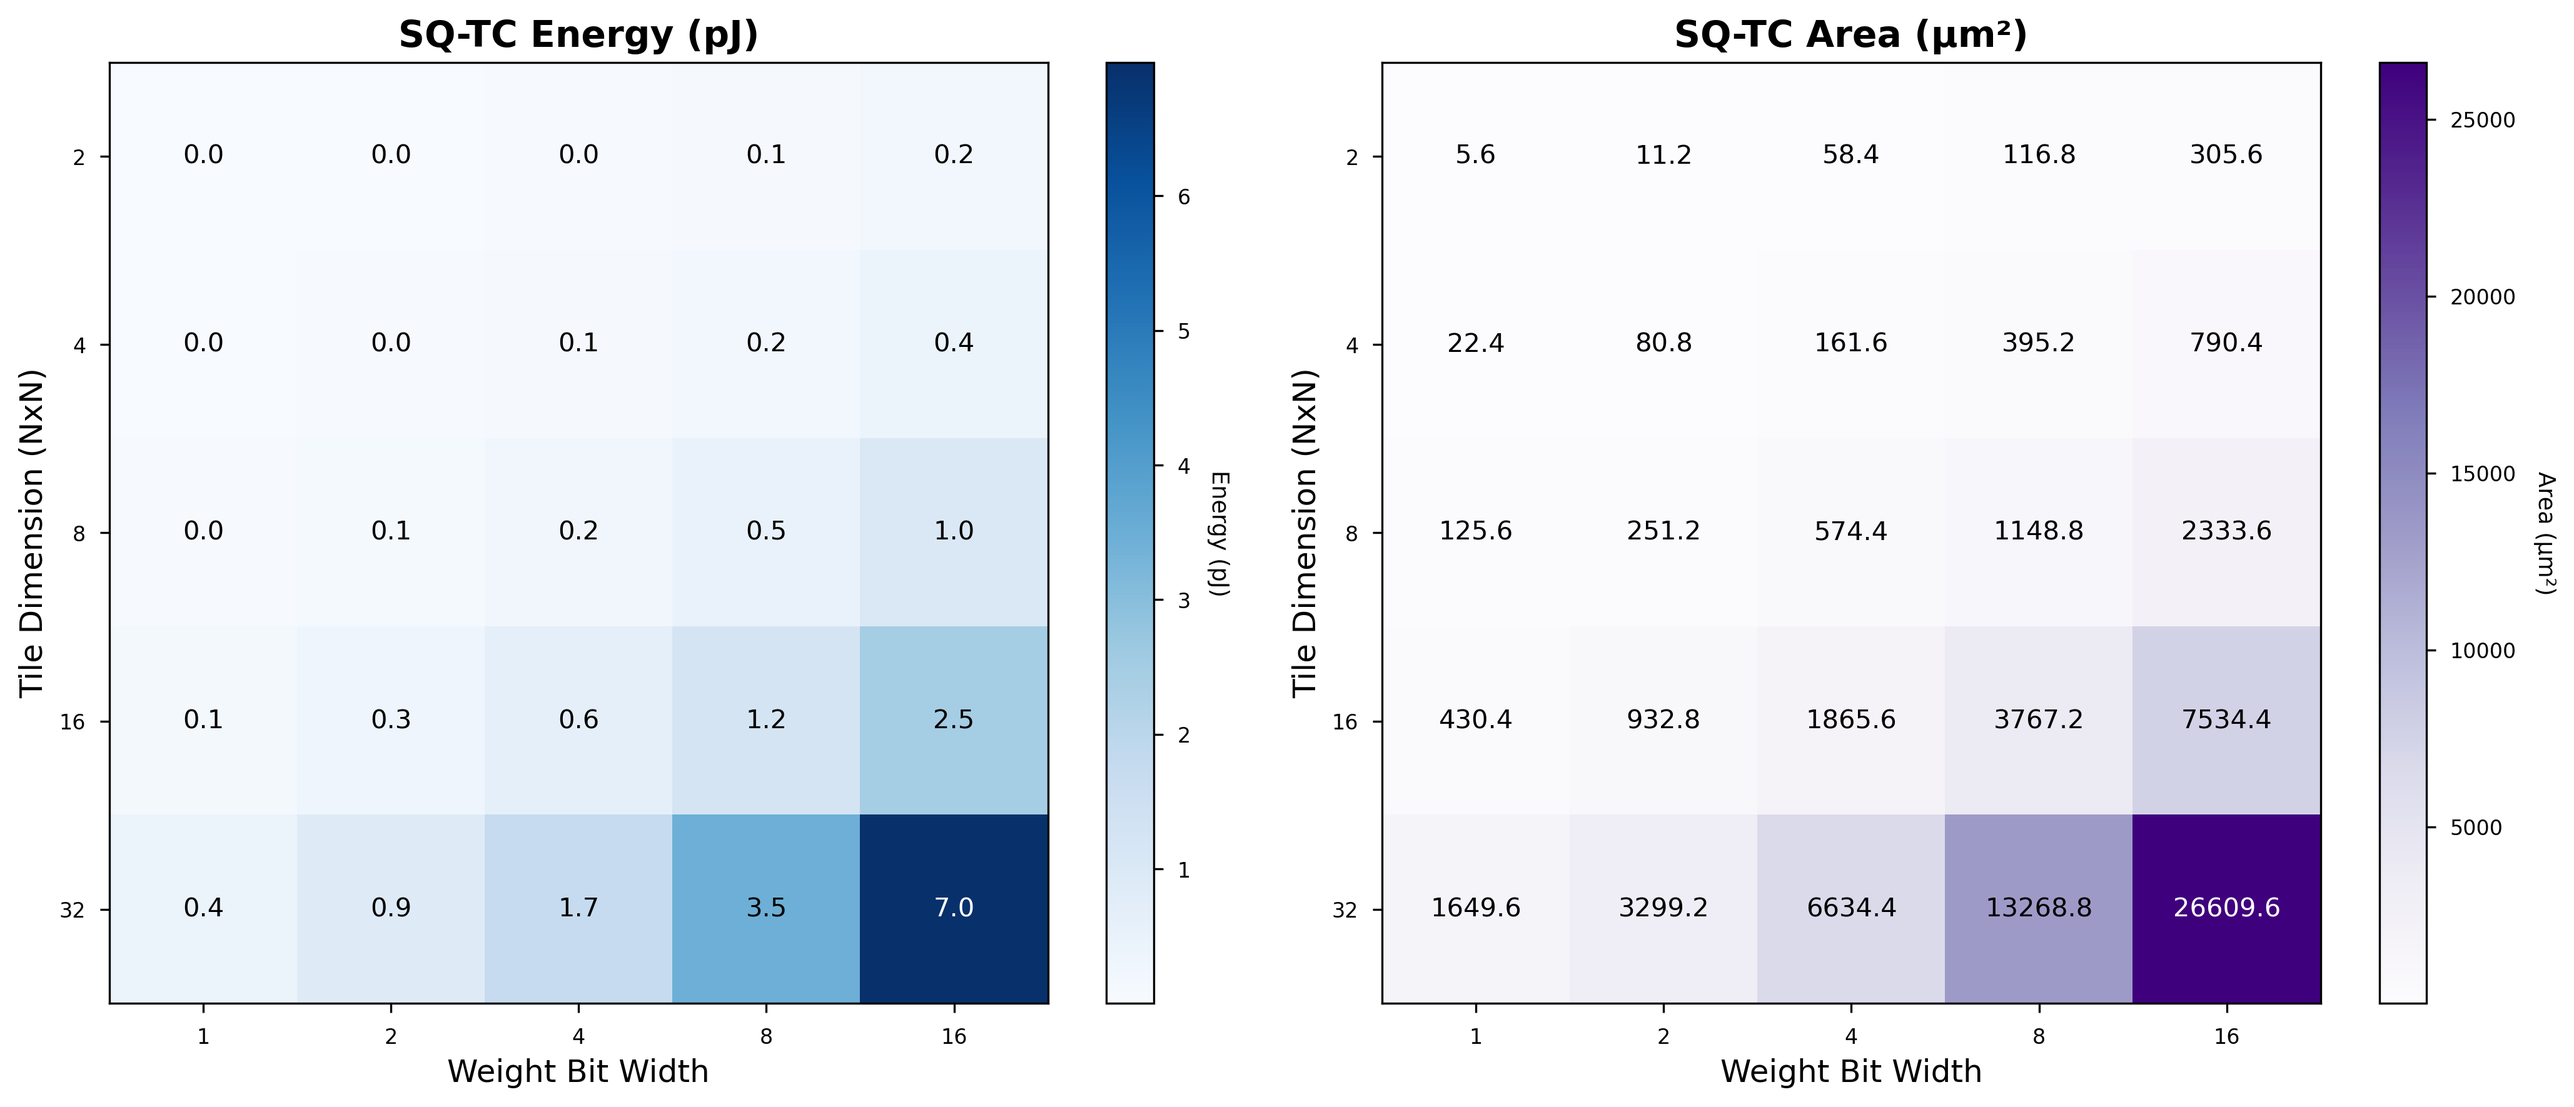
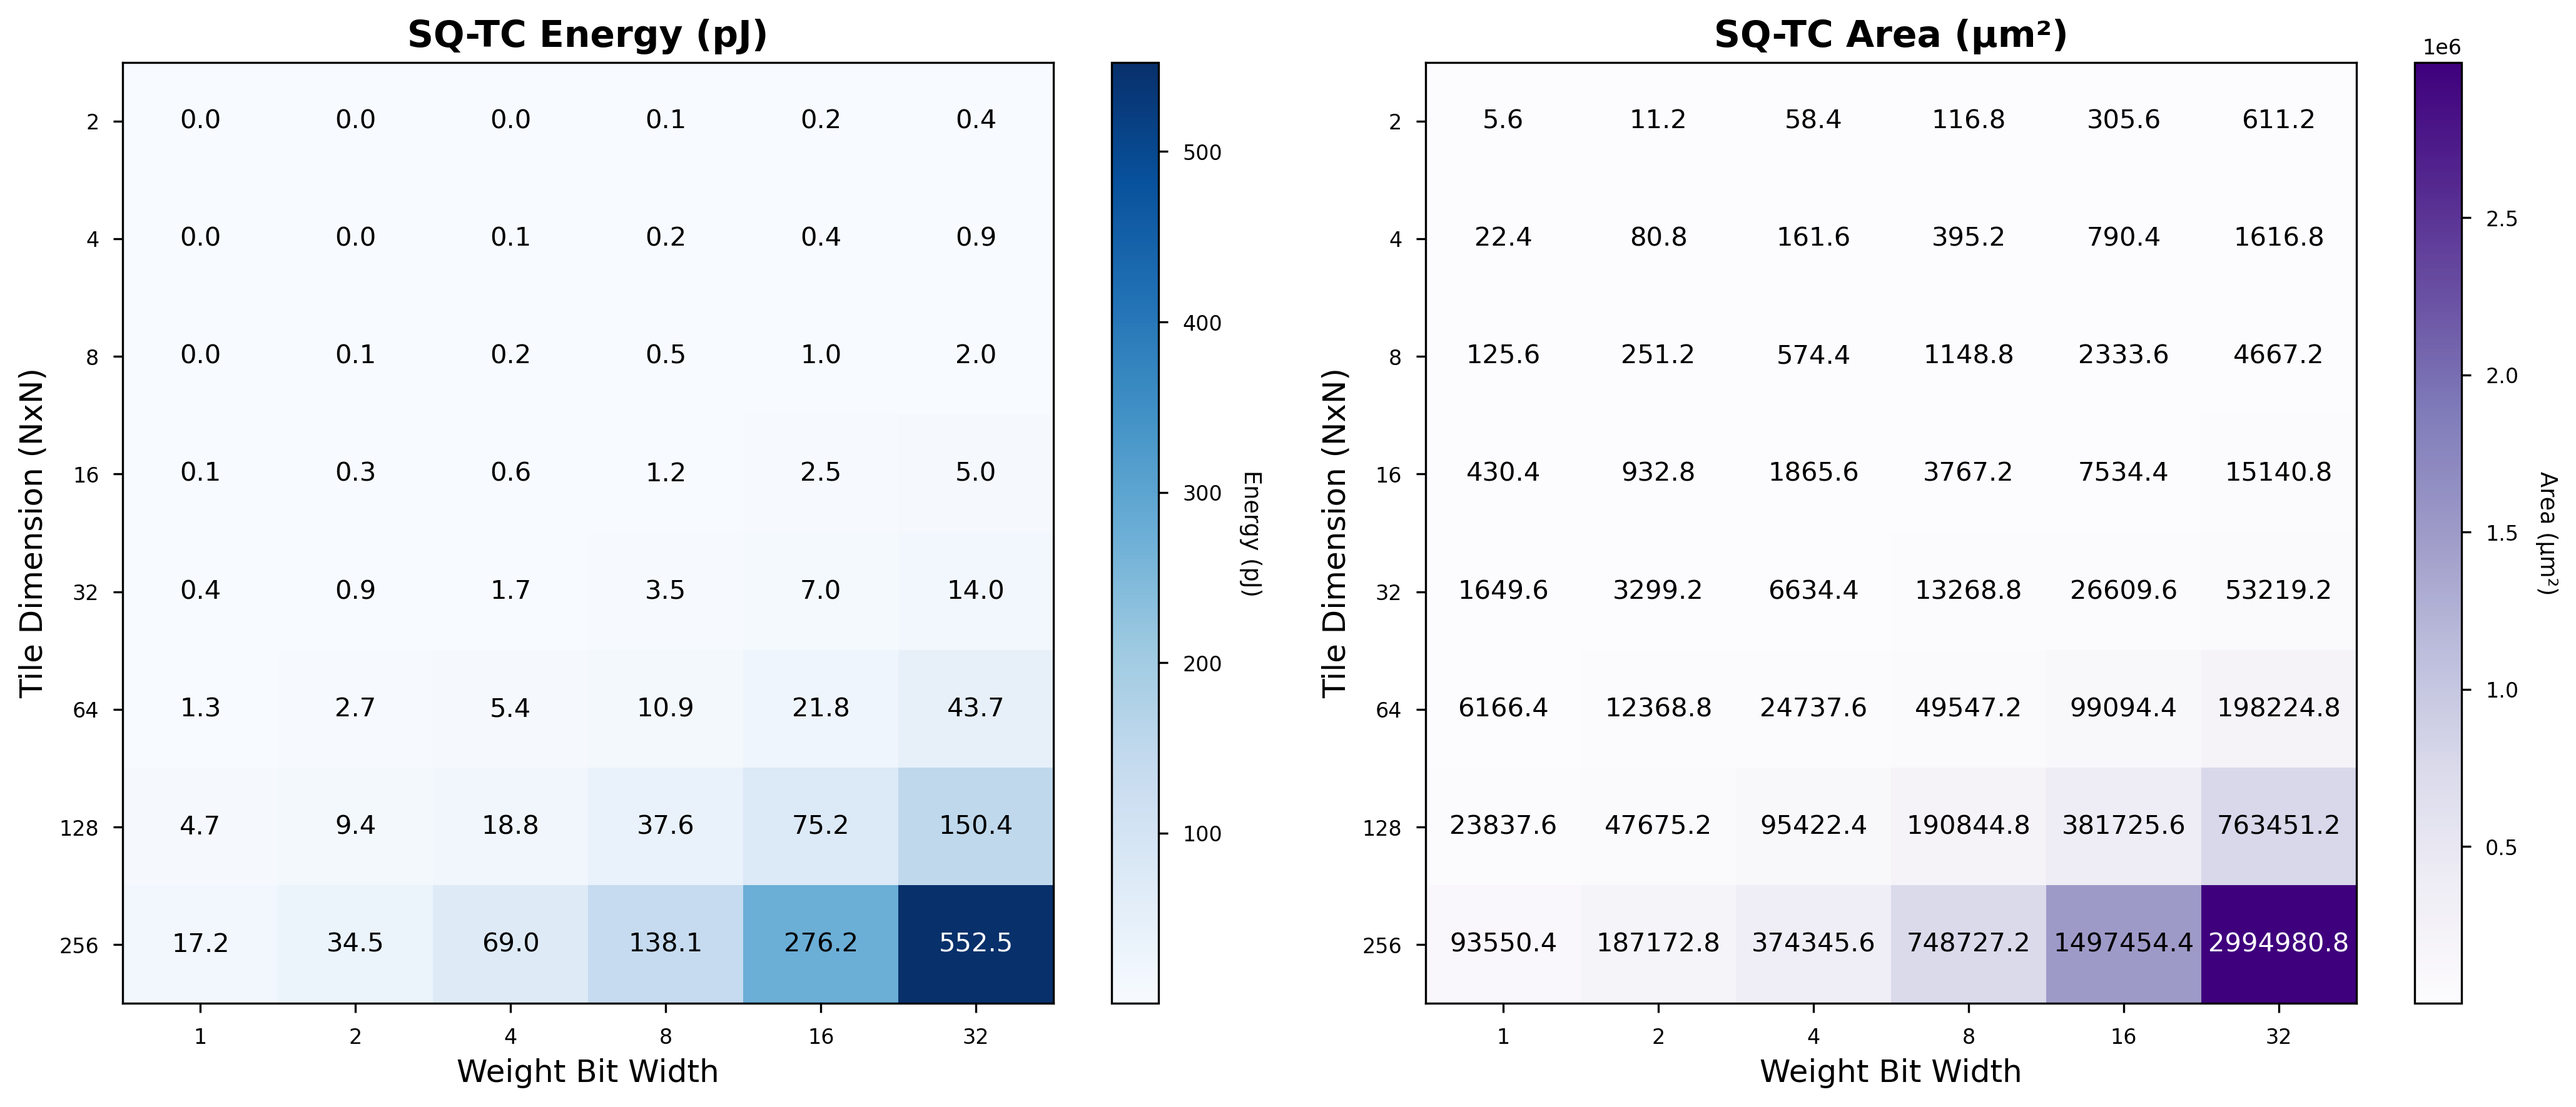
add more plots to resource model

diff --git a/models/resource-model/pe_model.py b/models/resource-model/pe_model.py
@@ -595,6 +595,255 @@ def plot_combined_heatmap(tile_sizes: list, weight_bits_list: list, combined_res
     plt.savefig('sq_tc_combined_heatmap.png', format='png', dpi=300, bbox_inches='tight')
     plt.show()
 
+def plot_component_breakdown(tile_dim: int = 4, weight_bits: int = 4, activation_bits: int = 8):
+    """Plot energy and area breakdown by component for SQ-TC"""
+    plt.style.use('seaborn-v0_8-paper')
+    
+    # Calculate costs
+    pe_costs = calculate_pe_costs(tile_dim=tile_dim, weight_bits=weight_bits, activation_bits=activation_bits)
+    sq_tc_components = pe_costs['sq_tc']['components']
+    
+    # Extract component data
+    components = list(sq_tc_components.keys())
+    energy_values = [sq_tc_components[comp]['energy'] for comp in components]
+    area_values = [sq_tc_components[comp]['area'] for comp in components]
+    
+    # Create a figure with two subplots
+    fig, (ax1, ax2) = plt.subplots(1, 2, figsize=(12, 5), dpi=300)
+    
+    # Energy breakdown pie chart
+    colors = ['#808080', '#6F9EE3']
+    
+    # Add percentage to labels
+    total_energy = sum(energy_values)
+    energy_labels = [f"{comp}\n({value/total_energy:.1%})" for comp, value in zip(components, energy_values)]
+    
+    ax1.pie(energy_values, labels=energy_labels, colors=colors, autopct='%.1f%%', 
+            startangle=90, wedgeprops={'edgecolor': 'w', 'linewidth': 1})
+    
+    # Format energy plot
+    ax1.set_title('SQ-TC Energy Breakdown', fontsize=14, fontweight='bold')
+    
+    # Area breakdown pie chart
+    total_area = sum(area_values)
+    area_labels = [f"{comp}\n({value/total_area:.1%})" for comp, value in zip(components, area_values)]
+    
+    ax2.pie(area_values, labels=area_labels, colors=colors, autopct='%.1f%%', 
+            startangle=90, wedgeprops={'edgecolor': 'w', 'linewidth': 1})
+    
+    # Format area plot
+    ax2.set_title('SQ-TC Area Breakdown', fontsize=14, fontweight='bold')
+    
+    # Add subtitle with configuration
+    plt.figtext(0.5, 0.01, f"Tile Dim: {tile_dim}×{tile_dim}, Weight Bits: {weight_bits}, Activation Bits: {activation_bits}, Sparsity: 80%",
+               ha="center", fontsize=10)
+    
+    # Adjust layout
+    plt.tight_layout(rect=[0, 0.05, 1, 0.95])
+    plt.savefig('sq_tc_component_breakdown.png', format='png', dpi=300, bbox_inches='tight')
+    plt.show()
+
+def plot_sparsity_impact(tile_dim: int = 4, weight_bits: int = 4, activation_bits: int = 8):
+    """Plot how different sparsity levels affect SQ-TC performance"""
+    plt.style.use('seaborn-v0_8-paper')
+    
+    # Test different sparsity levels
+    sparsity_levels = [0.0, 0.2, 0.4, 0.6, 0.8, 0.9, 0.95, 0.99]
+    results = []
+    
+    # Store original sparsity
+    original_sparsity = None
+    
+    # Temporarily modify the sparsity in calculate_pe_costs
+    for sparsity in sparsity_levels:
+        # Inject sparsity for this calculation
+        global_vars = globals()
+        
+        # Find the calculate_pe_costs function and temporarily modify it
+        original_code = calculate_pe_costs.__code__
+        original_code_str = original_code.__str__()
+        
+        # Store the original sparsity value first time
+        if original_sparsity is None:
+            # Extract the current sparsity value
+            import re
+            match = re.search(r'sparsity\s*=\s*([0-9.]+)', original_code_str)
+            if match:
+                original_sparsity = float(match.group(1))
+        
+        # Create a modified version of calculate_pe_costs with the desired sparsity
+        # Since we can't directly modify the function, we'll use a wrapper
+        def modified_calculate_pe_costs(tile_dim=tile_dim, weight_bits=weight_bits, activation_bits=activation_bits):
+            elements_per_tile = tile_dim * tile_dim
+            base_adders = tile_dim * weight_bits - 1
+            
+            # Use the current sparsity from the loop
+            current_sparsity = sparsity
+            
+            active_ratio = 1 - current_sparsity
+            compressed_adders = int(base_adders * active_ratio)  # Reduce Adders Based on Sparsity
+            
+            sq_tc_components = {
+                'transmission_gates': {
+                    'count': elements_per_tile * weight_bits,
+                    'energy': elements_per_tile * weight_bits * HardwareCosts.ENERGY['transmission_gate'] * active_ratio,
+                    'area': elements_per_tile * weight_bits * HardwareCosts.AREA['transmission_gate']
+                },
+                'adder_tree': {
+                    'count': compressed_adders,
+                    'energy': compressed_adders * HardwareCosts.ENERGY['add_8bit'],
+                    'area': compressed_adders * HardwareCosts.AREA['add_8bit']
+                }
+            }
+            
+            sq_tc_total_energy = sum(comp['energy'] for comp in sq_tc_components.values())
+            sq_tc_total_area = sum(comp['area'] for comp in sq_tc_components.values())
+            
+            return {
+                'components': sq_tc_components,
+                'total_energy': sq_tc_total_energy,
+                'total_area': sq_tc_total_area
+            }
+        
+        # Calculate with the modified function
+        result = modified_calculate_pe_costs()
+        results.append({
+            'sparsity': sparsity,
+            'energy': result['total_energy'],
+            'area': result['total_area']
+        })
+    
+    # Create a figure with two subplots
+    fig, (ax1, ax2) = plt.subplots(1, 2, figsize=(12, 5), dpi=300)
+    
+    # Energy vs Sparsity plot
+    ax1.plot([r['sparsity'] for r in results], [r['energy'] for r in results], 
+             color='#808080', marker='o', markersize=5)
+    
+    # Format energy plot
+    ax1.set_title('SQ-TC Energy vs Sparsity', fontsize=14, fontweight='bold')
+    ax1.set_xlabel('Sparsity', fontsize=12)
+    ax1.set_ylabel('Energy (pJ)', fontsize=12)
+    ax1.grid(True, alpha=0.3, linestyle='--')
+    ax1.tick_params(axis='both', which='major', labelsize=10)
+    
+    # Area vs Sparsity plot
+    ax2.plot([r['sparsity'] for r in results], [r['area'] for r in results], 
+             color='#808080', marker='o', markersize=5)
+    
+    # Format area plot
+    ax2.set_title('SQ-TC Area vs Sparsity', fontsize=14, fontweight='bold')
+    ax2.set_xlabel('Sparsity', fontsize=12)
+    ax2.set_ylabel('Area (μm²)', fontsize=12)
+    ax2.grid(True, alpha=0.3, linestyle='--')
+    ax2.tick_params(axis='both', which='major', labelsize=10)
+    
+    # Add subtitle with configuration
+    plt.figtext(0.5, 0.01, f"Tile Dim: {tile_dim}×{tile_dim}, Weight Bits: {weight_bits}, Activation Bits: {activation_bits}",
+               ha="center", fontsize=10)
+    
+    # Adjust layout
+    plt.tight_layout(rect=[0, 0.05, 1, 0.95])
+    plt.savefig('sq_tc_sparsity_impact.png', format='png', dpi=300, bbox_inches='tight')
+    plt.show()
+
+def plot_perf_comparison_radar(tile_dim: int = 4, weight_bits: int = 4, activation_bits: int = 8):
+    """Plot a radar chart comparing all architectures across multiple metrics"""
+    plt.style.use('seaborn-v0_8-paper')
+    
+    # Calculate costs
+    pe_costs = calculate_pe_costs(tile_dim=tile_dim, weight_bits=weight_bits, activation_bits=activation_bits)
+    
+    # Extract comparison metrics
+    architectures = ['SQ-TC', 'MAC', 'Bit-Serial', 'Bit-Slice', 'Bit-Interleaved', 'Bit-Column']
+    
+    # Get the metrics for each architecture
+    energy_values = [
+        pe_costs['sq_tc']['total_energy'],
+        pe_costs['mac']['total_energy'],
+        pe_costs['bit_serial']['total_energy'],
+        pe_costs['bit_slice']['total_energy'],
+        pe_costs['bit_interleaved']['total_energy'],
+        pe_costs['bit_column']['total_energy']
+    ]
+    
+    area_values = [
+        pe_costs['sq_tc']['total_area'],
+        pe_costs['mac']['total_area'],
+        pe_costs['bit_serial']['total_area'],
+        pe_costs['bit_slice']['total_area'],
+        pe_costs['bit_interleaved']['total_area'],
+        pe_costs['bit_column']['total_area']
+    ]
+    
+    # Normalize values between 0 and 1 (lower is better)
+    def normalize_inverse(values):
+        max_val = max(values)
+        return [1 - (val / max_val) for val in values]
+    
+    norm_energy = normalize_inverse(energy_values)
+    norm_area = normalize_inverse(area_values)
+    
+    # Compute an "efficiency" metric (1/energy * 1/area)
+    efficiency = [1/(e+0.001) * 1/(a+0.001) for e, a in zip(energy_values, area_values)]
+    norm_efficiency = [e/max(efficiency) for e in efficiency]
+    
+    # Compute a "density" metric (ops per area)
+    # We'll use 1/area as a proxy for this
+    density = [1/(a+0.001) for a in area_values]
+    norm_density = [d/max(density) for d in density]
+    
+    # Create radar chart
+    categories = ['Energy Efficiency', 'Area Efficiency', 'Compute Density', 'Overall Efficiency']
+    
+    fig = plt.figure(figsize=(10, 8), dpi=300)
+    ax = fig.add_subplot(111, polar=True)
+    
+    # Number of categories
+    N = len(categories)
+    
+    # Angle of each axis
+    angles = [n / float(N) * 2 * np.pi for n in range(N)]
+    angles += angles[:1]  # Close the loop
+    
+    # Initialize the radar plot
+    ax.set_theta_offset(np.pi / 2)
+    ax.set_theta_direction(-1)
+    
+    # Set the labels for each axis
+    plt.xticks(angles[:-1], categories, fontsize=12)
+    
+    # Draw axis lines for each angle and label
+    ax.set_rlabel_position(0)
+    plt.yticks([0.25, 0.5, 0.75], ["0.25", "0.5", "0.75"], color="grey", size=10)
+    plt.ylim(0, 1)
+    
+    # Define colors for each architecture
+    colors = ['#808080', '#8B7CC8', '#6F9EE3', '#B784D9', '#E091C8', '#4B6BCC']
+    
+    # Plot each architecture
+    for i, arch in enumerate(architectures):
+        values = [norm_energy[i], norm_area[i], norm_density[i], norm_efficiency[i]]
+        values += values[:1]  # Close the loop
+        
+        ax.plot(angles, values, linewidth=2, linestyle='solid', color=colors[i], label=arch)
+        ax.fill(angles, values, color=colors[i], alpha=0.1)
+    
+    # Add legend
+    plt.legend(loc='upper right', bbox_to_anchor=(0.1, 0.1), fontsize=10)
+    
+    # Add title
+    plt.title('Architecture Comparison', size=15, y=1.1, fontweight='bold')
+    
+    # Add subtitle with configuration
+    plt.figtext(0.5, 0.01, f"Tile Dim: {tile_dim}×{tile_dim}, Weight Bits: {weight_bits}, Activation Bits: {activation_bits}, Sparsity: 80%",
+               ha="center", fontsize=10)
+    
+    # Adjust layout
+    plt.tight_layout(rect=[0, 0.05, 1, 0.95])
+    plt.savefig('architecture_radar_comparison.png', format='png', dpi=300, bbox_inches='tight')
+    plt.show()
+
 if __name__ == "__main__":
     print("Analysis for a Single PE:")
     results = calculate_pe_costs(tile_dim=4, weight_bits=4, activation_bits=8)
@@ -606,15 +855,24 @@ if __name__ == "__main__":
     plot_scaling_analysis(matrix_sizes, scaling_results)
     
     print("\nAnalysing SQ-TC vs Tile Size...")
-    tile_sizes = [2, 4, 8, 16, 32]
+    tile_sizes = [2, 4, 8, 16, 32, 64, 128, 256]
     tile_scaling_results = analyse_tile_scaling(tile_sizes)
     plot_tile_size_scaling(tile_sizes, tile_scaling_results)
     
     print("\nAnalysing SQ-TC vs Weight Bits...")
-    weight_bits_list = [1, 2, 4, 8, 16]
+    weight_bits_list = [1, 2, 4, 8, 16, 32]
     weight_bits_results = analyse_weight_bits_scaling(weight_bits_list)
     plot_weight_bits_scaling(weight_bits_list, weight_bits_results)
     
     print("\nAnalysing Combined Scaling (Tile Size vs Weight Bits)...")
     combined_results = analyse_combined_scaling(tile_sizes, weight_bits_list)
     plot_combined_heatmap(tile_sizes, weight_bits_list, combined_results)
+    
+    print("\nAnalysing Component Breakdown for SQ-TC...")
+    plot_component_breakdown()
+    
+    print("\nAnalysing Impact of Sparsity on SQ-TC...")
+    plot_sparsity_impact()
+    
+    print("\nComparing Architectures with Radar Chart...")
+    plot_perf_comparison_radar()
